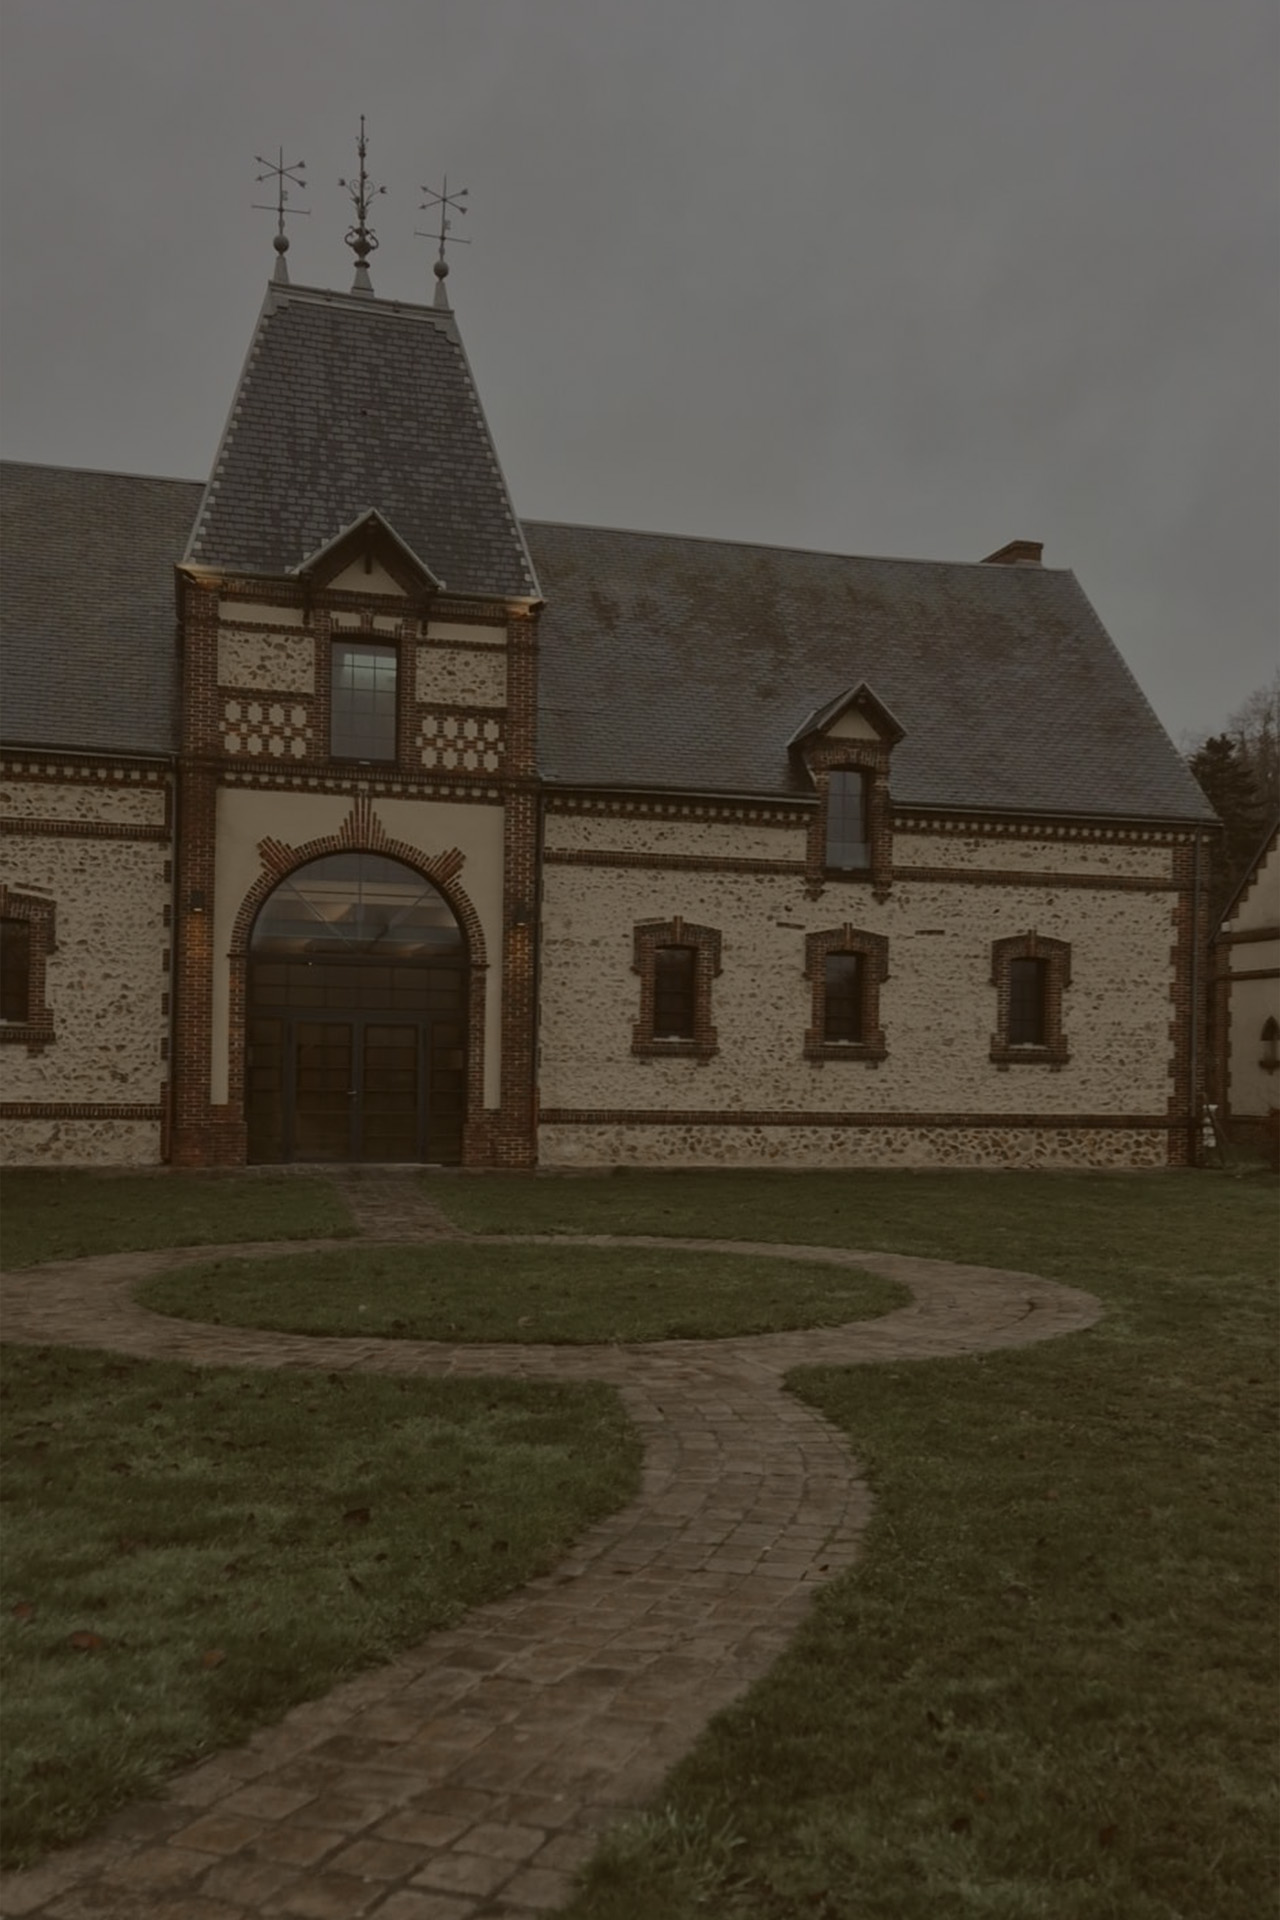
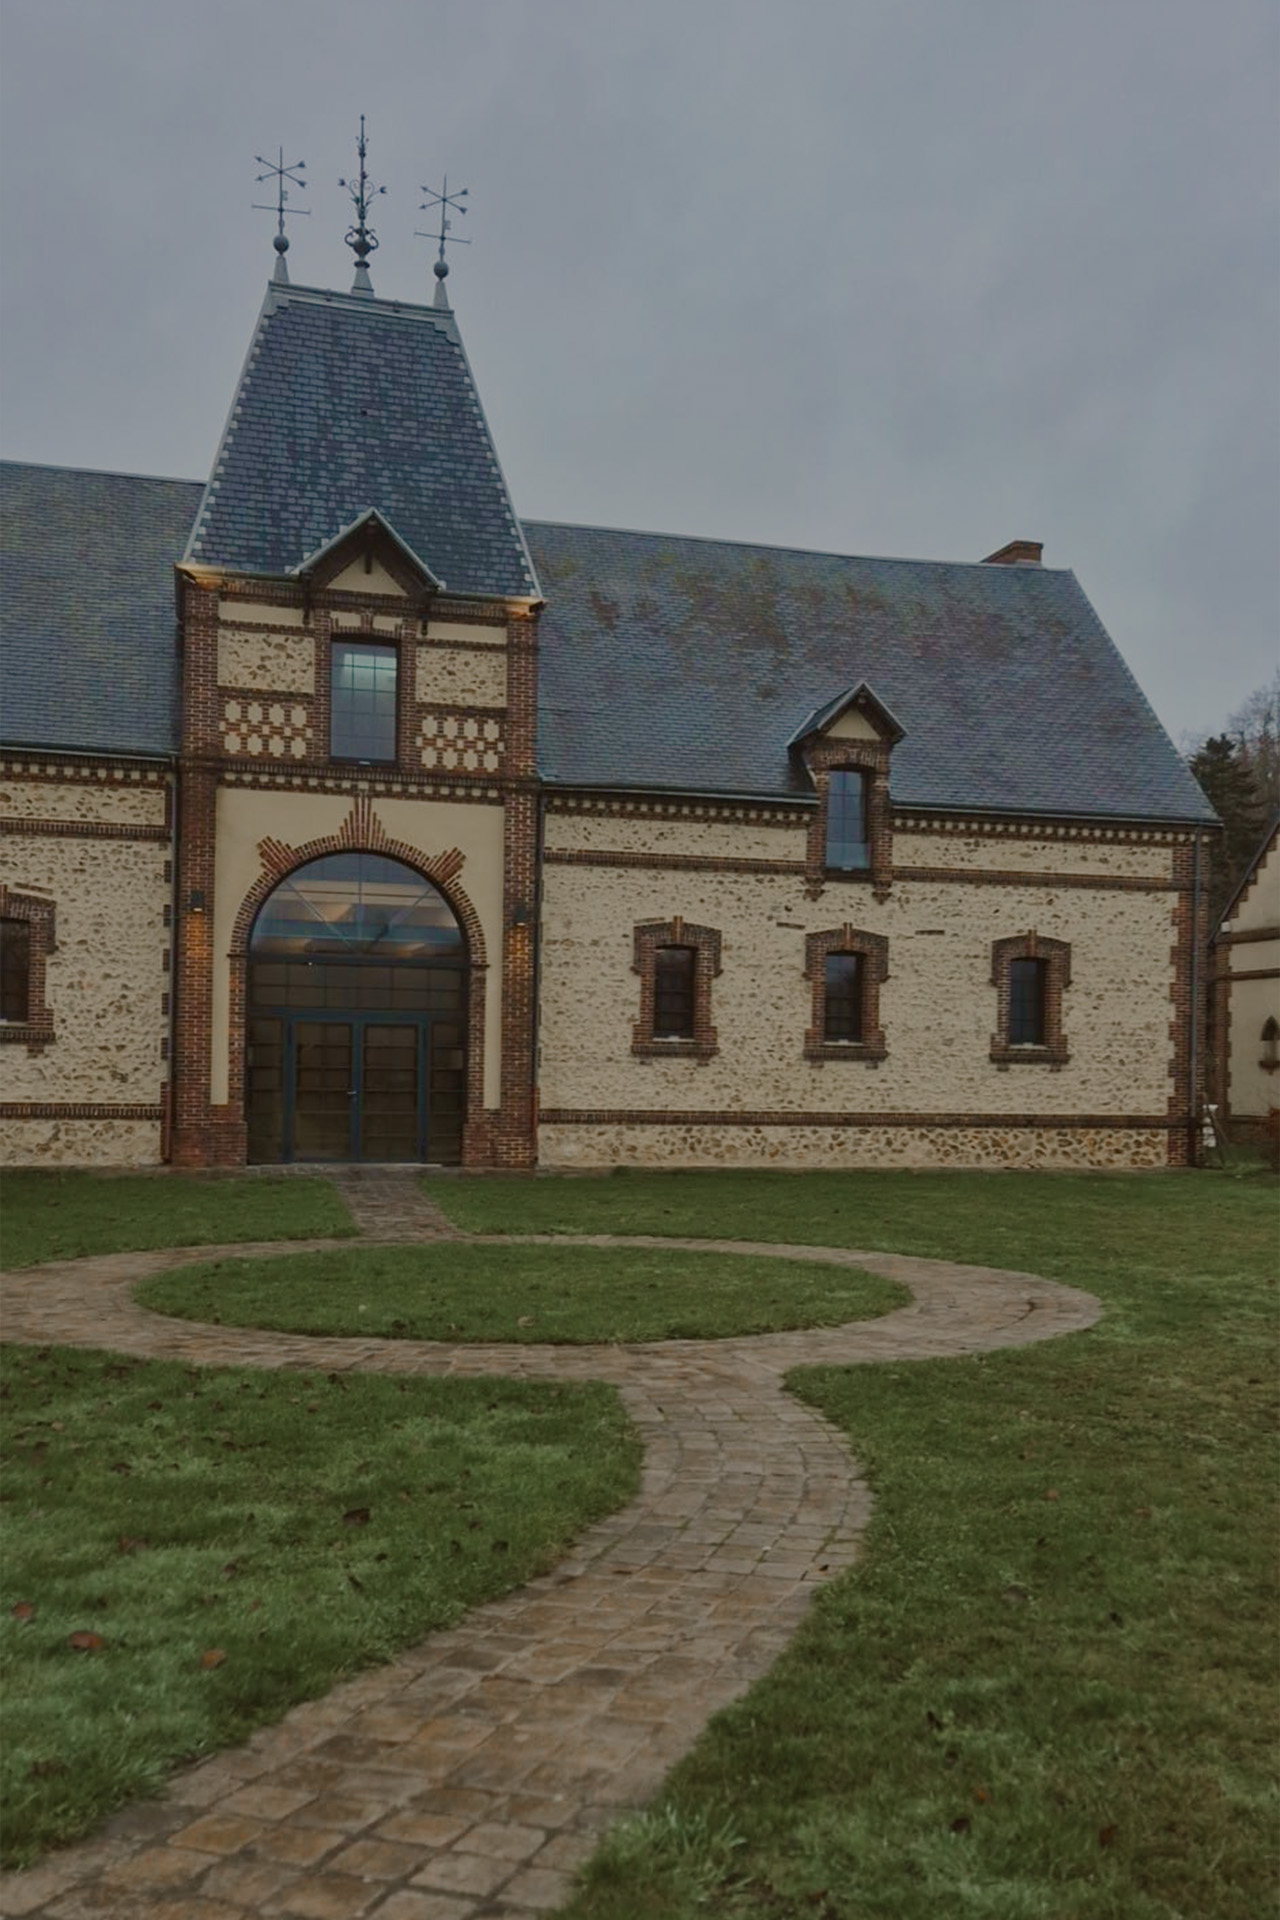
wip: change photos

diff --git a/app/components/slides/TimelineSlide.tsx b/app/components/slides/TimelineSlide.tsx
@@ -26,11 +26,7 @@ export default function TimelineSlide({ onNext }: TimelineSlideProps) {
   const { title, timeline: t } = config.slides.timeline;
 
   return (
-    <Slide
-      image={t.image}
-      alt={title.fr}
-      className="slide--timeline"
-    >
+    <Slide image={t.image} alt={title.fr} className="slide--timeline">
       <SlideHeader title={title} />
 
       <div className="timeline-slide__events">
@@ -44,23 +40,17 @@ export default function TimelineSlide({ onNext }: TimelineSlideProps) {
                   className={`timeline-slide__icon ${
                     event.highlight
                       ? "timeline-slide__icon--highlight"
-                        : "timeline-slide__icon--default"
+                      : "timeline-slide__icon--default"
                   }`}
                 >
-                  <Icon
-                    className="timeline-slide__icon-glyph"
-                  />
+                  <Icon className="timeline-slide__icon-glyph" />
                 </div>
                 <div className="timeline-slide__event-content">
                   <div className="timeline-slide__time">
-                    <span
-                      className="timeline-slide__time-fr"
-                    >
+                    <span className="timeline-slide__time-fr">
                       {event.time.fr}
                     </span>
-                    <span
-                      className="timeline-slide__time-en"
-                    >
+                    <span className="timeline-slide__time-en">
                       {event.time.en}
                     </span>
                   </div>
@@ -80,10 +70,7 @@ export default function TimelineSlide({ onNext }: TimelineSlideProps) {
       </div>
 
       <div className="timeline-slide__next">
-        <button
-          className="timeline-slide__next-button"
-          onClick={onNext}
-        >
+        <button className="timeline-slide__next-button" onClick={onNext}>
           {t.nextLabel}
         </button>
       </div>

diff --git a/config/config.ts b/config/config.ts
@@ -109,13 +109,17 @@ export const config = {
     invitation: {
       invitation: {
         images: [
-          "/photos/slides/02.jpg",
-          "/photos/slides/05.jpg",
-          "/photos/slides/06.jpg",
-          "/photos/slides/07.jpg",
-          "/photos/slides/08.jpg",
-          "/photos/slides/09.jpg",
-          "/photos/slides/01.jpg",
+          "/photos/carousel/A.jpg",
+          "/photos/carousel/B.jpg",
+          "/photos/carousel/C.jpg",
+          "/photos/carousel/D.jpg",
+          "/photos/carousel/E.jpg",
+          "/photos/carousel/F.jpg",
+          "/photos/carousel/G.jpg",
+          "/photos/carousel/H.jpg",
+          "/photos/carousel/I.jpg",
+          "/photos/carousel/K.jpg",
+          "/photos/carousel/L.jpg",
         ],
         badge: "Invitation au Mariage",
         scrollLabel: "Découvrir • Scroll",
@@ -142,7 +146,7 @@ export const config = {
       title: { en: "The Wedding", fr: "Le Mariage" } as Bilingual,
       domaine: {
         title: "Domaine de Coulonge",
-        image: "/photos/slides/03.jpg",
+        image: "/photos/slides/03b.jpg",
         addressLine1: "2 route de Damville",
         addressLine2: "27240 Sylvains-les-Moulins",
         addressLine3: "Normandie, France",
@@ -155,7 +159,7 @@ export const config = {
     timeline: {
       title: { fr: "Programme", en: "Timeline" } as Bilingual,
       timeline: {
-        image: "/photos/slides/04.jpg",
+        image: "/photos/slides/04b.jpg",
         nextLabel: "Invitation ↓",
         events: timelineEvents,
       },
@@ -258,7 +262,7 @@ export const config = {
     brunch: {
       common: { title: "Le Brunch" },
       brunch: {
-        image: "/photos/slides/08.jpg",
+        image: "/photos/slides/08a.jpg",
         dateLabel: "Dimanche 16 Mai 2027",
         text: {
           fr: "Ne manquez pas le brunch du lendemain !",

diff --git a/app/globals.scss b/app/globals.scss
@@ -25,8 +25,8 @@
   --color-ink: #271c17;
   --color-white: #fff;
   --color-muted: rgba(255, 255, 255, 0.78);
-  --color-accent: #f2b74d;
-  --color-accent-hover: #f0aa2b;
+  --color-accent: #ffcc66;
+  --color-accent-hover: #fea932;
   --color-accent-light: #f3e6d3;
   --color-border: rgba(255, 255, 255, 0.26);
   --shadow-text: 0 2px 15px rgba(0, 0, 0, 0.33), 0 1px 5px rgba(0, 0, 0, 0.2);

diff --git a/app/components/slides/BrunchSlide.scss b/app/components/slides/BrunchSlide.scss
@@ -4,7 +4,7 @@
     z-index: 10;
     width: 100%;
     max-width: 24rem;
-    margin: auto auto var(--spacing-m);
+    margin: calc(var(--spacing-l) * 3) auto var(--spacing-m);
   }
   &__panel {
     padding-bottom: var(--spacing-l);
@@ -47,5 +47,8 @@
   &__form {
     margin-top: var(--spacing-m);
     text-align: left;
+  }
+  .slide__image {
+    filter: brightness(1.05);
   }
 }

diff --git a/app/components/DesktopHero.scss b/app/components/DesktopHero.scss
@@ -13,7 +13,7 @@
     height: 100%;
     object-fit: cover;
     object-position: top right;
-    filter: contrast(1.05);
+    filter: contrast(1.05) brightness(0.9);
   }
 
   &__border {

diff --git a/app/components/slides/DomaineSlide.scss b/app/components/slides/DomaineSlide.scss
@@ -100,6 +100,10 @@
   }
 }
 
+.slide--domaine .slide__image {
+  filter: brightness(1.6) contrast(1.06);
+}
+
 @media (max-width: 767px) {
   .domaine-slide__arrow {
     width: 3.5rem;

diff --git a/app/components/slides/RsvpSlide.scss b/app/components/slides/RsvpSlide.scss
@@ -10,3 +10,7 @@
     padding: var(--spacing-m) 0;
   }
 }
+
+.slide--rsvp .slide__image {
+  filter: brightness(1.35);
+}

diff --git a/app/components/slides/TimelineSlide.scss b/app/components/slides/TimelineSlide.scss
@@ -110,3 +110,7 @@
     }
   }
 }
+
+.slide--timeline .slide__image {
+  filter: contrast(1.05) brightness(1.8);
+}
